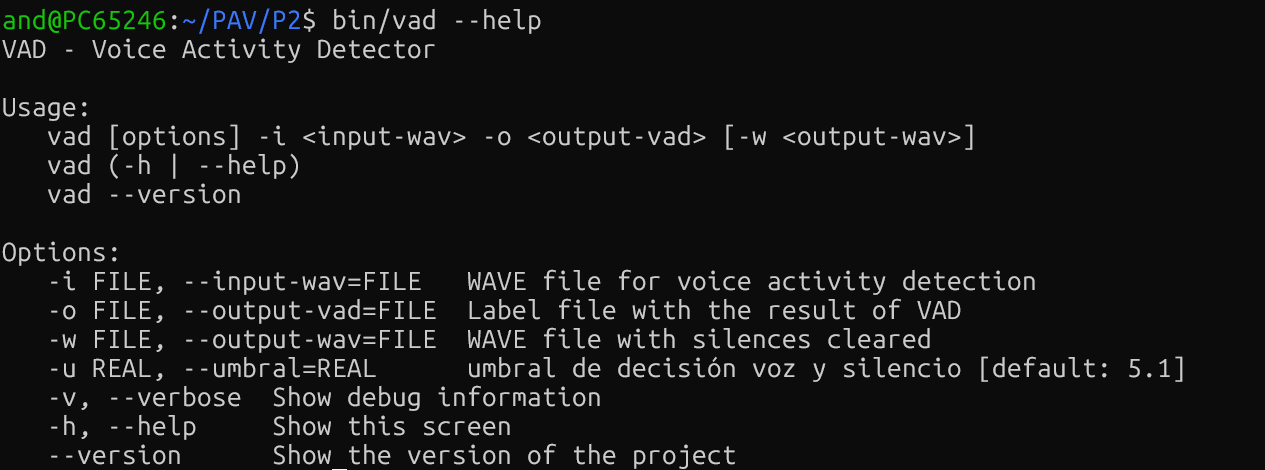
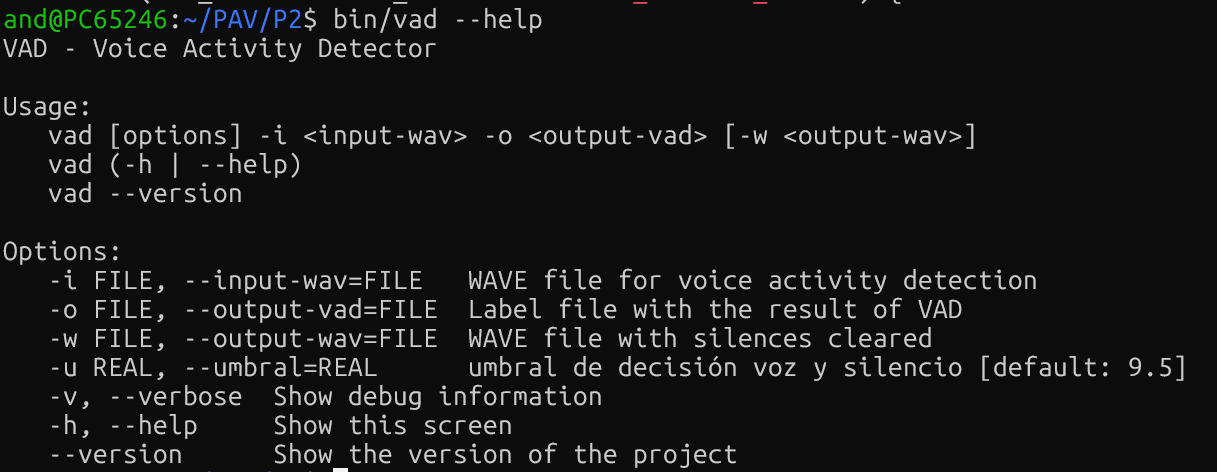
Mejora VAD con hangover y optimizacion de parametros

Changed region(s): [[0.0, 0.5064, 0.968, 1.0], [0.0, 0.2085, 0.8118, 0.4468], [0.0, 0.0, 0.4684, 0.1489]]

diff --git a/src/vad.c b/src/vad.c
@@ -6,6 +6,7 @@
 #include "pav_analysis.h"
 
 const float FRAME_TIME = 10.0F; /* in ms. */
+#define MIN_SILENCE_FRAMES 10
 
 /* 
  * As the output state is only ST_VOICE, ST_SILENCE, or ST_UNDEF,
@@ -56,6 +57,7 @@ VAD_DATA * vad_open(float rate) {
   vad_data->state = ST_INIT;
   vad_data->sampling_rate = rate;
   vad_data->frame_length = rate * FRAME_TIME * 1e-3;
+  vad_data->tramas_silencio = 0;
   return vad_data;
 }
 
@@ -97,13 +99,23 @@ VAD_STATE vad(VAD_DATA *vad_data, float *x, float umbral) {
     break;
 
   case ST_SILENCE:
-    if (f.p > vad_data -> potencia_soroll + umbral)
+    if (f.p > vad_data->potencia_soroll + umbral) {
       vad_data->state = ST_VOICE;
+      vad_data->tramas_silencio = 0;
+    }
     break;
 
   case ST_VOICE:
-    if (f.p < vad_data -> potencia_soroll + umbral)
-      vad_data->state = ST_SILENCE;
+    if (f.p < vad_data->potencia_soroll + umbral) {
+      vad_data->tramas_silencio++;
+
+      if (vad_data->tramas_silencio >= MIN_SILENCE_FRAMES) {
+        vad_data->state = ST_SILENCE;
+        vad_data->tramas_silencio = 0;
+      }
+    } else {
+      vad_data->tramas_silencio = 0;
+    }
     break;
 
   case ST_UNDEF:

diff --git a/src/vad_docopt.h b/src/vad_docopt.h
@@ -37,7 +37,7 @@ const char help_message[] =
 "   -i FILE, --input-wav=FILE   WAVE file for voice activity detection\n"
 "   -o FILE, --output-vad=FILE  Label file with the result of VAD\n"
 "   -w FILE, --output-wav=FILE  WAVE file with silences cleared\n"
-"   -u REAL, --umbral=REAL      umbral de decisión voz y silencio [default: 5.1]\n"
+"   -u REAL, --umbral=REAL      umbral de decisión voz y silencio [default: 9.5]\n"
 "   -v, --verbose  Show debug information\n"
 "   -h, --help     Show this screen\n"
 "   --version      Show the version of the project\n"
@@ -304,7 +304,7 @@ int elems_to_args(Elements *elements, DocoptArgs *args, bool help,
 
 DocoptArgs docopt(int argc, char *argv[], bool help, const char *version) {
     DocoptArgs args = {
-        0, 0, 0, NULL, NULL, NULL, (char*) "5.1",
+        0, 0, 0, NULL, NULL, NULL, (char*) "9.5",
         usage_pattern, help_message
     };
     Tokens ts;

diff --git a/src/vad.h b/src/vad.h
@@ -18,6 +18,7 @@ typedef struct {
   float last_feature; /* for debuggin purposes */
   ///////////////////////////////////////////////////////////////
   float potencia_soroll;
+  unsigned int tramas_silencio;
   //\\\\\\\\\\\\\\\\\\\\\\\\\\\\\\\\\\\\\\\\\\\\\\\\\\\\\\\\\\\\//
 } VAD_DATA;
 

diff --git a/README.md b/README.md
@@ -192,7 +192,7 @@ La siguiente captura muestra la forma de onda, la potencia, la ZCR, las etiqueta
 
 En la gráfica se observa que los fragmentos de voz presentan, en general, una potencia claramente superior a la del silencio. Para identificar visualmente los segmentos de voz más evidentes, un incremento de varias decenas de dB permite distinguirlos del ruido de fondo, aunque los límites de algunos segmentos tienen una potencia menor.
 
-Experimentalmente, el detector obtuvo su mejor puntuación global entre los umbrales probados en `db.v4` utilizando un incremento de **5,1 dB** respecto a la referencia inicial. Este umbral es más sensible, pero también puede producir falsas detecciones de voz durante el silencio.
+En una primera versión del detector se seleccionó un umbral de 5,1 dB, obteniendo una puntuación global del 90,845 % sobre `db.v4`. Posteriormente, al incorporar un mecanismo de confirmación temporal del silencio y optimizar sus parámetros, se seleccionó un umbral de 9,5 dB con un hangover de 100 ms. Esta configuración obtuvo un 93,933 % en la misma base de datos.
 
 **2. Duración mínima razonable de los segmentos de voz y silencio**
 
@@ -200,7 +200,7 @@ Dado que el análisis se realiza en tramas de 10 ms, se considera razonable prop
 
 No obstante, en la grabación etiquetada aparece una pausa real de aproximadamente 65 ms. Por tanto, utilizar duraciones mínimas demasiado elevadas podría eliminar pausas auténticas.
 
-Estos valores son una propuesta de mejora y no corresponden a un mecanismo de duración mínima implementado en el detector actual.
+En la versión final se ha implementado un mecanismo de hangover de 100 ms para confirmar el paso de voz a silencio. No se ha implementado una duración mínima equivalente para confirmar la entrada en voz. Los 50 ms planteados anteriormente eran una estimación inicial a partir de la señal, mientras que los 100 ms se seleccionaron después mediante pruebas experimentales sobre `db.v4`.
 
 **3. Conclusiones sobre la tasa de cruces por cero (ZCR)**
 
@@ -233,65 +233,68 @@ Por tanto, la ZCR es una característica complementaria a la potencia, pero no e
 
 **Implementación del detector de actividad vocal**
 
-Se ha implementado un VAD basado en la potencia de la señal, que procesa el audio en tramas de 10 ms.
+Se ha implementado un detector VAD basado en la potencia de la señal, trabajando con tramas de 10 ms. Para cada trama se calcula la potencia mediante `compute_power()` de `pav_analysis.c`, reutilizando las funciones desarrolladas en la P1.
 
-Para cada trama se calcula la potencia mediante la función `compute_power()` de `pav_analysis.c`, reutilizando el código desarrollado en la práctica P1.
+El detector utiliza tres estados principales:
 
-El detector utiliza una máquina de estados con tres estados principales:
+- `ST_INIT`: almacena la potencia de la primera trama como referencia inicial del ruido.
+- `ST_SILENCE`: permanece en silencio hasta que la potencia supera el umbral.
+- `ST_VOICE`: permanece en voz hasta confirmar que la potencia se ha mantenido por debajo del umbral durante un número determinado de tramas consecutivas.
 
-- `ST_INIT`: inicializa el detector y almacena la potencia de la primera trama como referencia del ruido de fondo.
-- `ST_SILENCE`: representa los segmentos de silencio. Se pasa al estado de voz cuando la potencia supera la referencia inicial más el umbral.
-- `ST_VOICE`: representa los segmentos de voz. Se vuelve al estado de silencio cuando la potencia cae por debajo del mismo umbral.
+Inicialmente se utilizaba un único umbral de potencia, sin ningún mecanismo para evitar cambios rápidos de estado.
 
-Las transiciones dependen de la condición:
+Posteriormente se añadió un mecanismo de *hangover*, mediante un contador de tramas consecutivas de baja potencia. Si la potencia vuelve a superar el umbral antes de alcanzar el número mínimo de tramas, el contador se reinicia y el detector permanece en voz.
 
-`potencia_actual > potencia_ruido_inicial + umbral`
+Se probaron diferentes duraciones de *hangover* y distintos umbrales sobre `db.v4`, utilizando como criterio la maximización de la puntuación `TOTAL`.
 
-Se ha utilizado un umbral relativo de **5,1 dB**, seleccionado experimentalmente tras evaluar distintos valores sobre `db.v4`. Este valor fue el que obtuvo la mayor puntuación `TOTAL` entre los umbrales ensayados de 4,0 a 6,0 dB, en pasos de 0,1 dB.
+La configuración final seleccionada fue:
 
-El detector implementado no incluye todavía mecanismos de suavizado temporal ni de actualización continua de la estimación de ruido.
+- **Umbral relativo:** 9,5 dB.
+- **Hangover:** 10 tramas consecutivas, equivalentes a 100 ms.
+
+Esta mejora reduce la fragmentación de los segmentos de voz provocada por caídas breves de potencia. Como contrapartida, también puede prolongar las detecciones de voz dentro de algunos intervalos de silencio.
 
 **Comparación entre el etiquetado manual y el automático**
 
-La siguiente imagen muestra la señal temporal de la grabación recortada, su potencia y ZCR, junto con el etiquetado manual y la detección automática:
+La siguiente captura muestra la señal temporal, la potencia, la ZCR, el etiquetado manual y la detección automática de la grabación recortada:
 
-![Comparación entre el etiquetado manual y automático](img/comparacion_vad.png)
+![Comparación entre etiquetado manual y detección automática](img/comparacion_vad.png)
 
-La detección automática reproduce correctamente los principales fragmentos de voz. Sin embargo, se observan discrepancias durante algunos intervalos de silencio, especialmente al comienzo de la grabación, donde aparecen cambios de estado que no corresponden a voz real.
+El detector identifica correctamente los principales fragmentos de voz, pero presenta algunas discrepancias durante los silencios. Estas se deben a fluctuaciones de potencia que pueden superar el umbral y al tiempo adicional que el algoritmo espera antes de pasar de voz a silencio.
 
-Estas falsas detecciones se deben a que el algoritmo utiliza únicamente un umbral de potencia. Por tanto, algunas fluctuaciones del ruido pueden superar el umbral y provocar transiciones incorrectas.
+También se observó que la grabación original comenzaba con un silencio de potencia anormalmente baja. Siguiendo la recomendación del enunciado, se recortó ese fragmento inicial antes de realizar el etiquetado y la evaluación definitiva.
 
-Además, se observó que la grabación original comenzaba con un silencio de potencia excepcionalmente baja. Al utilizar la primera trama como referencia, el detector clasificaba incorrectamente buena parte del silencio como voz.
+**Evaluación sobre la grabación propia**
 
-Siguiendo la recomendación del enunciado, se recortó ese fragmento inicial con WaveSurfer. Con el mismo umbral de 5,1 dB, la puntuación sobre la grabación pasó del **19,176 % al 92,857 %**.
+Con la nueva configuración de 9,5 dB y 100 ms de *hangover*, los resultados fueron:
 
-En la grabación recortada se obtuvieron los siguientes resultados:
+- Recall de voz: 100,00 %
+- Precisión de voz: 73,81 %
+- Recall de silencio: 64,31 %
+- Precisión de silencio: 100,00 %
+- **TOTAL: 91,674 %**
 
- Recall de voz:  100,00 % 
- Precisión de voz:  76,20 % 
- Recall de silencio:  68,59 % 
- Precisión de silencio:  100,00 % 
- TOTAL: 92,857 %
-
-Estos resultados indican que el detector identifica toda la voz del etiquetado manual, pero también clasifica algunos segmentos de silencio como voz.
+La primera versión del detector había obtenido un 92,857 % sobre esta grabación recortada. Por tanto, aunque la nueva configuración mejora los resultados globales sobre `db.v4`, empeora ligeramente la puntuación de esta grabación concreta.
 
 **Evaluación sobre la base de datos `db.v4`**
 
-Se ha evaluado el detector sobre la base de datos `db.v4` utilizando el script `vad_evaluation.pl`, con un umbral de 5,1 dB.
+Se ha evaluado la versión mejorada utilizando el script `vad_evaluation.pl`, con un umbral de 9,5 dB y un *hangover* de 100 ms.
 
-El resumen global obtenido es:
+El resumen global obtenido fue:
 
-Recall V: 94,25 % 
-Precision: V 89,35 % 
-F-score V: (2) 93,22 % 
-Recall S: 82,47 % 
-Precision S: 90,18 % 
-F-score S: (1/2) 88,53 % 
-TOTAL: 90,845 %
+- Recall V: 97,83 %
+- Precision V: 88,23 %
+- F-score V (2): 95,75 %
+- Recall S: 79,63 %
+- Precision S: 95,93 %
+- F-score S (1/2): 92,15 %
+- **TOTAL: 93,933 %**
 
-Los resultados muestran que el detector es más eficaz identificando voz que silencio. La principal limitación observada es la aparición de falsos positivos de voz durante intervalos silenciosos.
+La versión inicial obtenía un 90,845 %, por lo que la mejora conseguida es de **3,088 puntos porcentuales**.
 
-Como posible mejora futura se podrían incorporar duraciones mínimas de estado, histéresis entre los umbrales de entrada y salida de voz, o una estimación adaptativa del ruido de fondo. Estas mejoras no forman parte de la implementación actual.
+Los resultados muestran una mejora importante en la detección de voz, aunque el detector sigue teniendo dificultades para distinguir algunos intervalos silenciosos.
+
+Como posibles mejoras futuras podrían incorporarse histéresis entre los umbrales de entrada y salida de voz, una duración mínima para entrar en estado de voz o una estimación adaptativa del ruido. Estas funcionalidades no están implementadas en la versión actual.
 
 
 
@@ -314,7 +317,7 @@ Se ha utilizado la biblioteca `docopt_c` para gestionar las opciones y argumento
 
 El programa permite especificar el archivo de audio de entrada, el archivo de etiquetas de salida y el umbral de detección mediante argumentos de la línea de comandos.
 
-Se ha establecido un umbral predeterminado de 5,1 dB, seleccionado experimentalmente mediante la evaluación sobre `db.v4`. De esta forma, el detector puede ejecutarse sin indicar explícitamente el umbral.
+Se ha establecido un umbral predeterminado de 9,5 dB, seleccionado experimentalmente mediante la evaluación sobre `db.v4`. De esta forma, el detector puede ejecutarse sin indicar explícitamente el umbral.
 
 La siguiente captura muestra el mensaje de ayuda generado mediante `docopt_c`:
 
@@ -327,6 +330,14 @@ La siguiente captura muestra el mensaje de ayuda generado mediante `docopt_c`:
 
 - Si lo desea, puede realizar también algún comentario acerca de la realización de la práctica que
   considere de interés de cara a su evaluación.
+
+Como contribución adicional se han realizado diferentes pruebas para optimizar los parámetros del detector de actividad vocal.
+
+Primero se estudió el efecto del umbral de potencia. Después se incorporó un mecanismo de *hangover* para evitar cambios de estado provocados por caídas breves de potencia.
+
+Se realizaron varios barridos de valores, combinando umbrales de potencia y duraciones de *hangover*. La mejor configuración entre las probadas fue de 9,5 dB y 100 ms, con una puntuación `TOTAL` del 93,933 % sobre `db.v4`.
+
+El proceso permitió comprobar que aumentar la duración del *hangover* mejora la detección de algunos fragmentos de voz, pero también puede aumentar la cantidad de silencio clasificado como voz. Por ello, fue necesario ajustar conjuntamente ambos parámetros.
 
 
 ### Antes de entregar la práctica
